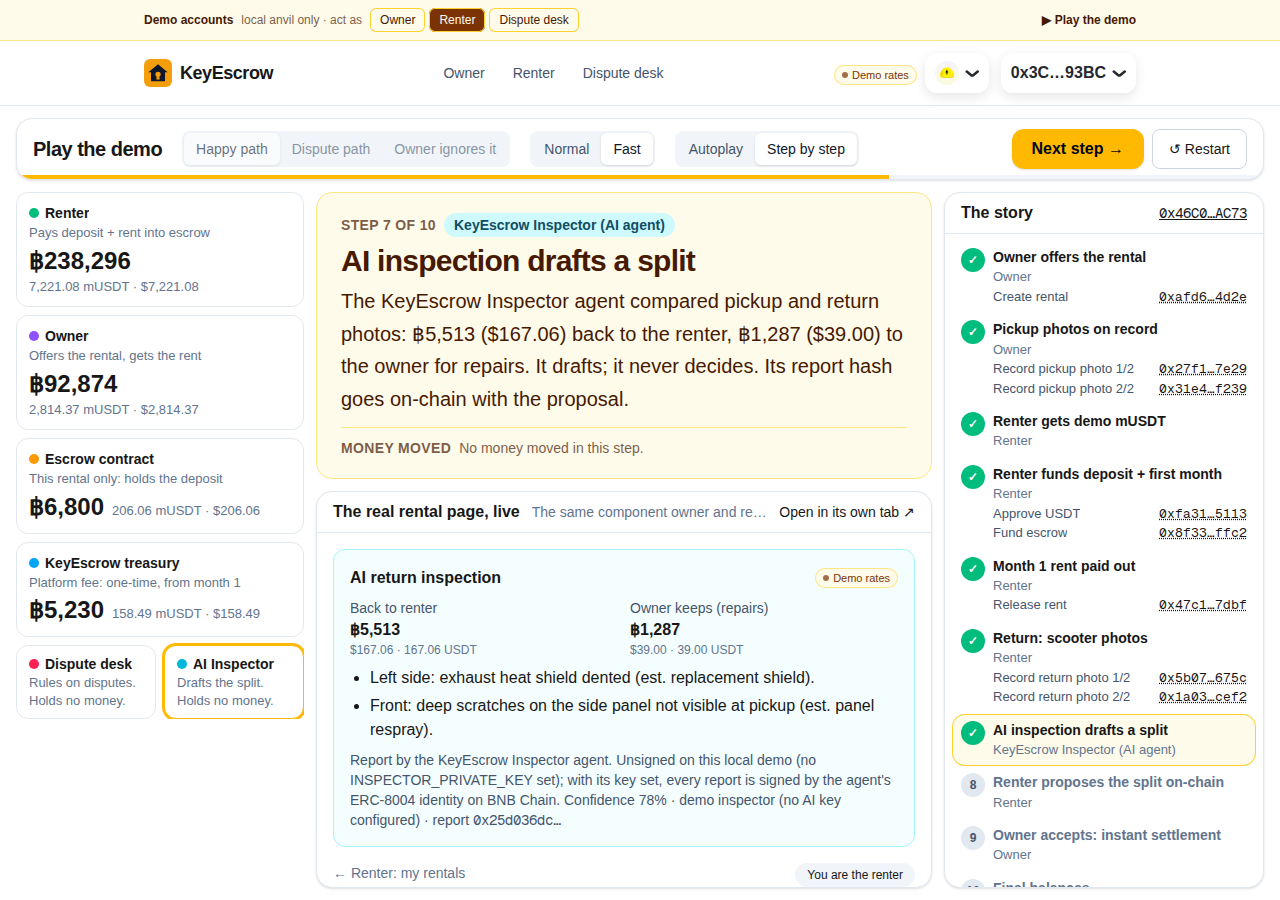
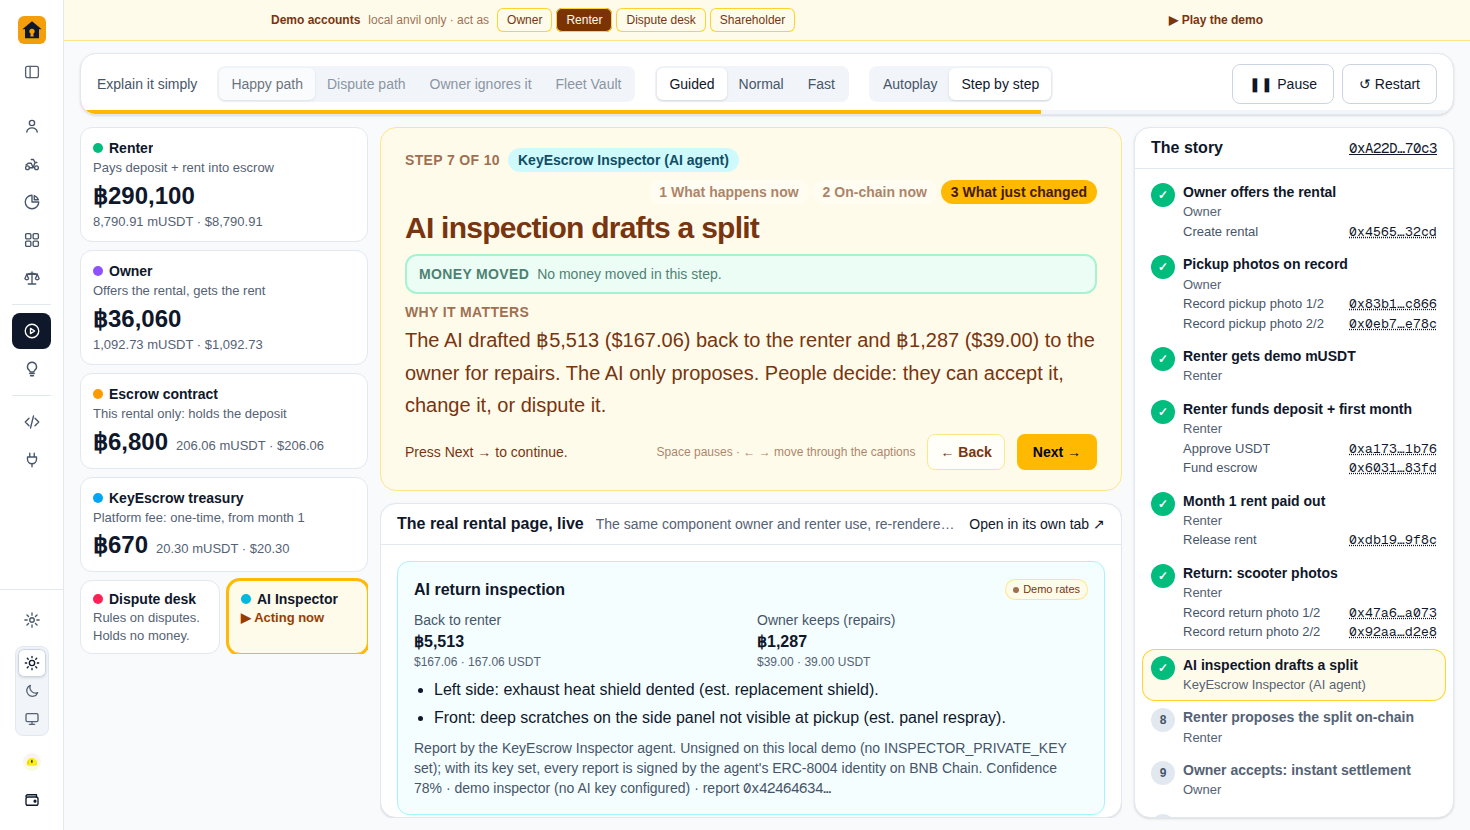
docs/screenshots: retake at 1470x830 (light) with the sidebar shell; add capture script
New: home, how-it-works, fleet-owner, shareholders, renter, developers. Retaken: demo-start,
demo-mid-run (Guided, AI inspection step), demo-summary, lease-detail, dispute-desk. Removed the
pre-sidebar shots that still showed landlord/tenant wording.

diff --git a/docs/screenshots/capture.spec.ts b/docs/screenshots/capture.spec.ts
@@ -1,0 +1,118 @@
+import { expect, test, type Page } from "@playwright/test";
+import path from "node:path";
+
+/**
+ * Regenerates the README / docs screenshots (docs/screenshots/*.png) at 1470x830, light theme, on the seeded
+ * throwaway anvil of the e2e setup (no keys: Demo rates, demo inspector). It is kept in docs/ so it never runs in CI.
+ *
+ *   cp docs/screenshots/capture.spec.ts web/e2e/docs-screenshots.spec.ts
+ *   cd web && npx playwright test docs-screenshots --workers=1
+ *   rm e2e/docs-screenshots.spec.ts
+ *
+ * Shots go to DOCS_SHOTS (default ../docs/screenshots). Viewport-sized (not full page), so they read like the screen.
+ */
+
+const SHOTS = process.env.DOCS_SHOTS ?? path.resolve(__dirname, "../../docs/screenshots");
+const VP = { width: 1470, height: 830 };
+const SEEDED_LEASE = "0x9f1ac54BEF0DD2f6f3462EA0fa94fC62300d3a8e"; // contracts/deployments/31337.demo.example.json `lease`
+
+test.use({ viewport: VP, colorScheme: "light" });
+
+async function light(page: Page) {
+  await page.goto("/");
+  await page.evaluate(() => localStorage.setItem("keyescrow-theme", "light"));
+}
+
+/** No toasts, no hover state, top of the page, transitions settled. */
+async function shot(page: Page, name: string) {
+  await expect(page.locator('[role="status"]')).toHaveCount(0, { timeout: 20_000 });
+  await page.mouse.move(VP.width - 2, VP.height - 2);
+  await page.waitForTimeout(600);
+  await page.screenshot({ path: path.join(SHOTS, `${name}.png`) });
+}
+
+async function view(page: Page, href: "landlord" | "shareholders" | "tenant" | "arbiter", role: string) {
+  await page.getByTestId(`view-${href}`).first().click();
+  await page.waitForURL(new RegExp(`/${href}$`));
+  await expect(page.getByTestId(`dev-role-${role}`)).toHaveAttribute("aria-pressed", "true");
+}
+
+test("docs screenshots", async ({ page }) => {
+  test.setTimeout(300_000);
+  await light(page);
+
+  // Home.
+  await page.goto("/");
+  await expect(page.getByTestId("play-demo")).toBeVisible();
+  await shot(page, "home");
+
+  // /how-it-works: the robot inspector scene, paused on a fixed frame.
+  await page.goto("/how-it-works?autoplay=0&scene=6&t=6500");
+  await page.waitForTimeout(800);
+  await shot(page, "how-it-works");
+
+  // /developers.
+  await page.goto("/developers");
+  await expect(page.getByTestId("action-get_lease")).toBeVisible();
+  await shot(page, "developers");
+
+  // Fleet owner and Shareholders (the sidebar role switcher also switches the demo account).
+  await page.goto("/");
+  await view(page, "landlord", "landlord");
+  await expect(page.getByTestId("scooter-card").first()).toBeVisible();
+  await page.waitForTimeout(1500);
+  await shot(page, "fleet-owner");
+
+  await view(page, "shareholders", "investor");
+  await expect(page.getByTestId("my-shares")).toContainText("3,000.00");
+  await expect(page.getByTestId("vault-inflow").first()).toBeVisible();
+  await page.waitForTimeout(1500);
+  await shot(page, "shareholders");
+
+  await view(page, "tenant", "tenant");
+  await expect(page.getByTestId("renter-rental").first()).toBeVisible();
+  await page.waitForTimeout(1500);
+  await shot(page, "renter");
+
+  await view(page, "arbiter", "arbiter");
+  await page.waitForTimeout(2500);
+  await shot(page, "dispute-desk");
+
+  // Lease detail: the seeded active rental (funded, pickup photos, timeline), seen by the renter.
+  await page.goto(`/lease/${SEEDED_LEASE}`);
+  await page.getByTestId("dev-role-tenant").click();
+  await expect(page.getByTestId("dev-role-tenant")).toHaveAttribute("aria-pressed", "true");
+  await expect(page.getByTestId("status-badge").first()).toHaveText("Active");
+  await expect(page.getByTestId("timeline")).toBeVisible();
+  await page.waitForTimeout(1500);
+  await shot(page, "lease-detail");
+
+  // /demo in Guided speed, step by step: start screen, then mid-run on the AI inspection's "What just changed".
+  await page.goto("/demo?speed=guided&step=1&timescale=0.05");
+  await expect(page.getByTestId("demo-play")).toBeEnabled();
+  await shot(page, "demo-start");
+  await page.getByTestId("demo-play").click();
+  const inspect = page.locator('[data-step="inspect"]');
+  const narration = page.getByTestId("demo-narration");
+  for (let i = 0; i < 80; i++) {
+    if ((await inspect.getAttribute("data-status")) === "done" && (await narration.getAttribute("data-beat")) === "changed") break;
+    const next = page.getByTestId("demo-beat-next").or(page.getByTestId("demo-next")).first();
+    if (await next.isVisible().catch(() => false)) await next.click().catch(() => {});
+    await page.waitForTimeout(400);
+  }
+  await expect(inspect).toHaveAttribute("data-status", "done");
+  await expect(page.getByTestId("demo-inspection")).toBeVisible();
+  await page.waitForTimeout(2000);
+  await shot(page, "demo-mid-run");
+
+  // Play out to the end summary.
+  await page.getByTestId("demo-mode-auto").click().catch(() => {});
+  for (let i = 0; i < 200 && !(await page.getByTestId("demo-summary").isVisible()); i++) {
+    const next = page.getByTestId("demo-beat-next").or(page.getByTestId("demo-next")).first();
+    if (await next.isVisible().catch(() => false)) await next.click().catch(() => {});
+    await page.waitForTimeout(400);
+  }
+  await expect(page.getByTestId("demo-summary")).toHaveAttribute("data-balanced", "true", { timeout: 60_000 });
+  await page.waitForTimeout(1500);
+  await shot(page, "demo-summary");
+});

diff --git a/docs/screenshots/README.md b/docs/screenshots/README.md
@@ -1,27 +1,30 @@
 # Screenshots
 
-Taken from a throwaway local anvil seeded with `pnpm chain:deploy` + `pnpm chain:seed`, the app built with
-`NEXT_PUBLIC_DEV_ACCOUNTS=1` and served by `next start`, no API keys (so prices show **Demo rates** and the AI
-proposal comes from the deterministic demo inspector). Desktop shots are 1280 px wide, mobile shots 390 px. The `demo-*` and `landing-play-demo` shots come from
-`pnpm -C web test:e2e` (`web/e2e/guided-demo.spec.ts`).
+All shots are 1470×830 (a 13–15" laptop screen), light theme, taken from the local e2e setup: a throwaway anvil
+(127.0.0.1:28546) deployed and seeded with `Deploy.s.sol` + `Seed.s.sol`, the app built with
+`NEXT_PUBLIC_DEV_ACCOUNTS=1` and served by `next start`, no API keys. So prices show **Demo rates**
+(1 USDT = 33 THB) and the AI proposal comes from the deterministic demo inspector. The live testnet site looks the
+same, minus the yellow *Demo accounts* bar.
 
-> **Wording:** `landing.png`, `landing-mobile.png`, `landlord-mobile.png`, `tenant-fund.png`, `ai-proposal.png` and
-> `moveout-proposal-landlord.png` were taken before the UI switched to the scooter-rental wording (owner, renter,
-> pickup, return) and still show the old landlord/tenant labels. The others were retaken from `pnpm -C web test:e2e`.
+Regenerate them with [capture.spec.ts](capture.spec.ts) (it lives here, outside `web/e2e/`, so CI never runs it):
 
-| File | What |
-| --- | --- |
-| `landing-play-demo.png` | Landing page of a local dev build, with the **Play the demo** button |
-| `demo-start.png` | One-click demo before starting: story, speed and mode controls, the step rail |
-| `demo-mid-run.png` | One-click demo in step-by-step mode after the AI inspection: narration, inspection card, the live rental page |
-| `demo-summary.png` | One-click demo end screen: settled, final balances for renter, owner and treasury in THB/USD/USDT |
-| `landing.png`, `landing-mobile.png` | Landing page: pitch, how it works, the fee in one line |
-| `landlord-create.png`, `landlord-mobile.png` | Owner: new-rental form with THB hints, fee note, and the owner's rentals |
-| `tenant-fund.png` | Renter: fund the escrow (deposit + first month), with every disabled button explaining why |
-| `lease-detail.png` | Rental page: rent schedule, return, pickup / return photo thumbnails, on-chain timeline |
-| `ai-proposal.png` | AI return inspection proposal with reasons, ready to propose on-chain |
-| `moveout-proposal-landlord.png` | Owner's view of the renter's proposal: accept, or wait out the reply window |
-| `lease-settled.png` | Settled rental with the final split |
-| `lease-mobile.png` | Settled rental at 390 px |
-| `dispute-desk.png` | Dispute desk queue: disputed rentals first |
-| `arbiter-resolve.png` | Dispute desk ruling form on the seeded disputed rental |
+```bash
+cp docs/screenshots/capture.spec.ts web/e2e/docs-screenshots.spec.ts
+cd web && npx playwright test docs-screenshots --workers=1   # needs anvil on PATH (~/.foundry/bin)
+rm e2e/docs-screenshots.spec.ts
+```
+
+| File | Route | What |
+| --- | --- | --- |
+| `home.png` | `/` | Landing: the pitch, *Play the demo*, how it works, the left sidebar (roles, demo, build) |
+| `demo-start.png` | `/demo` | Guided demo before starting: story, speed and mode controls |
+| `demo-mid-run.png` | `/demo` | Guided demo, step 7 of 10: the AI inspection's split, the actors' balances in THB, the live rental page, every tx hash |
+| `demo-summary.png` | `/demo` | End screen: settled, final balances for renter, owner and treasury; the escrow holds ฿0 |
+| `how-it-works.png` | `/how-it-works` | The ELI5 cartoon, scene 6: the robot inspector suggests a split, people decide |
+| `fleet-owner.png` | `/landlord` | Fleet owner: KPIs, the fleet with live on-chain status, income (one scooter pays the Fleet Vault) |
+| `shareholders.png` | `/shareholders` | Fleet Vault (`BKK-FLEET-1`): TVL, income after the 10 % operator fee, yield, your position, claim |
+| `renter.png` | `/tenant` | Renter: four steps, bookable scooters with the up-front amount in THB, "no passport" |
+| `lease-detail.png` | `/lease/<address>` | One rental, as the renter: rent schedule, what is in escrow, pickup photos, terms and the one-time fee |
+| `dispute-desk.png` | `/arbiter` | Dispute desk: the rental that needs a ruling first, then the others |
+| `developers.png` | `/developers` | The `/api/v1` actions (REST + MCP), generated from the same definitions as the API |
+| `settings-secrets-*.png` | `/settings/secrets` | The local-only, write-only secrets page (see [SETUP.md](../SETUP.md)); taken separately |
